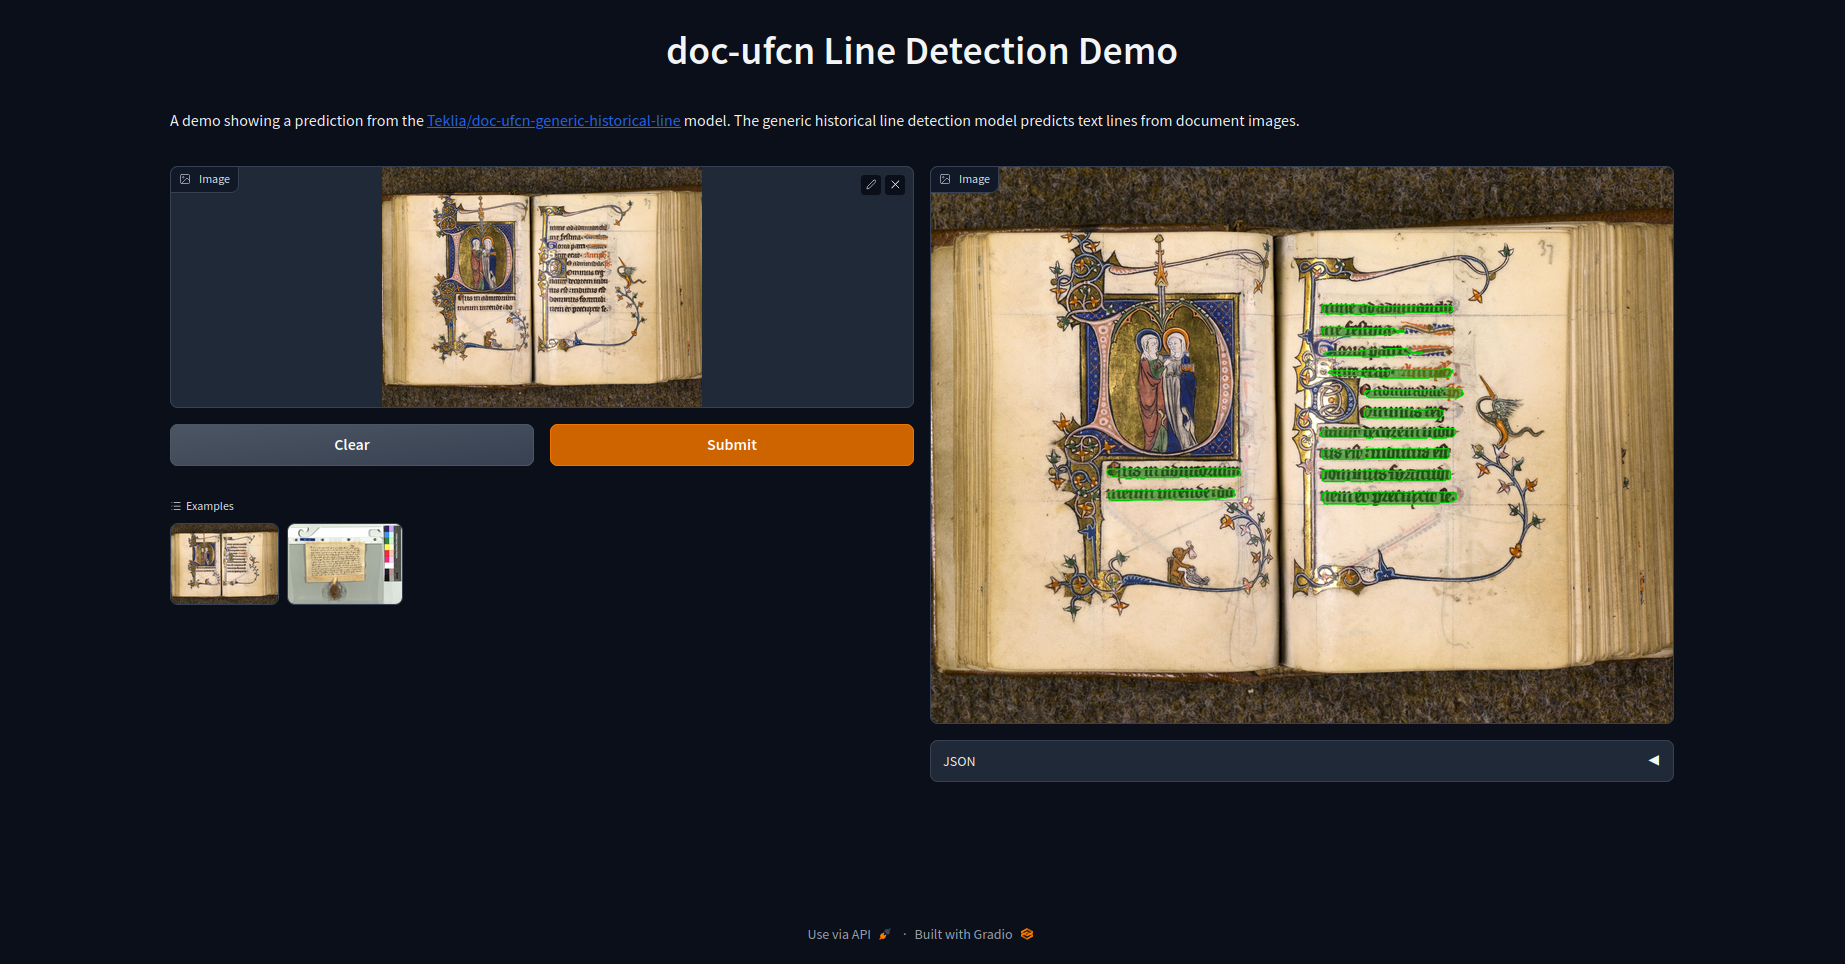
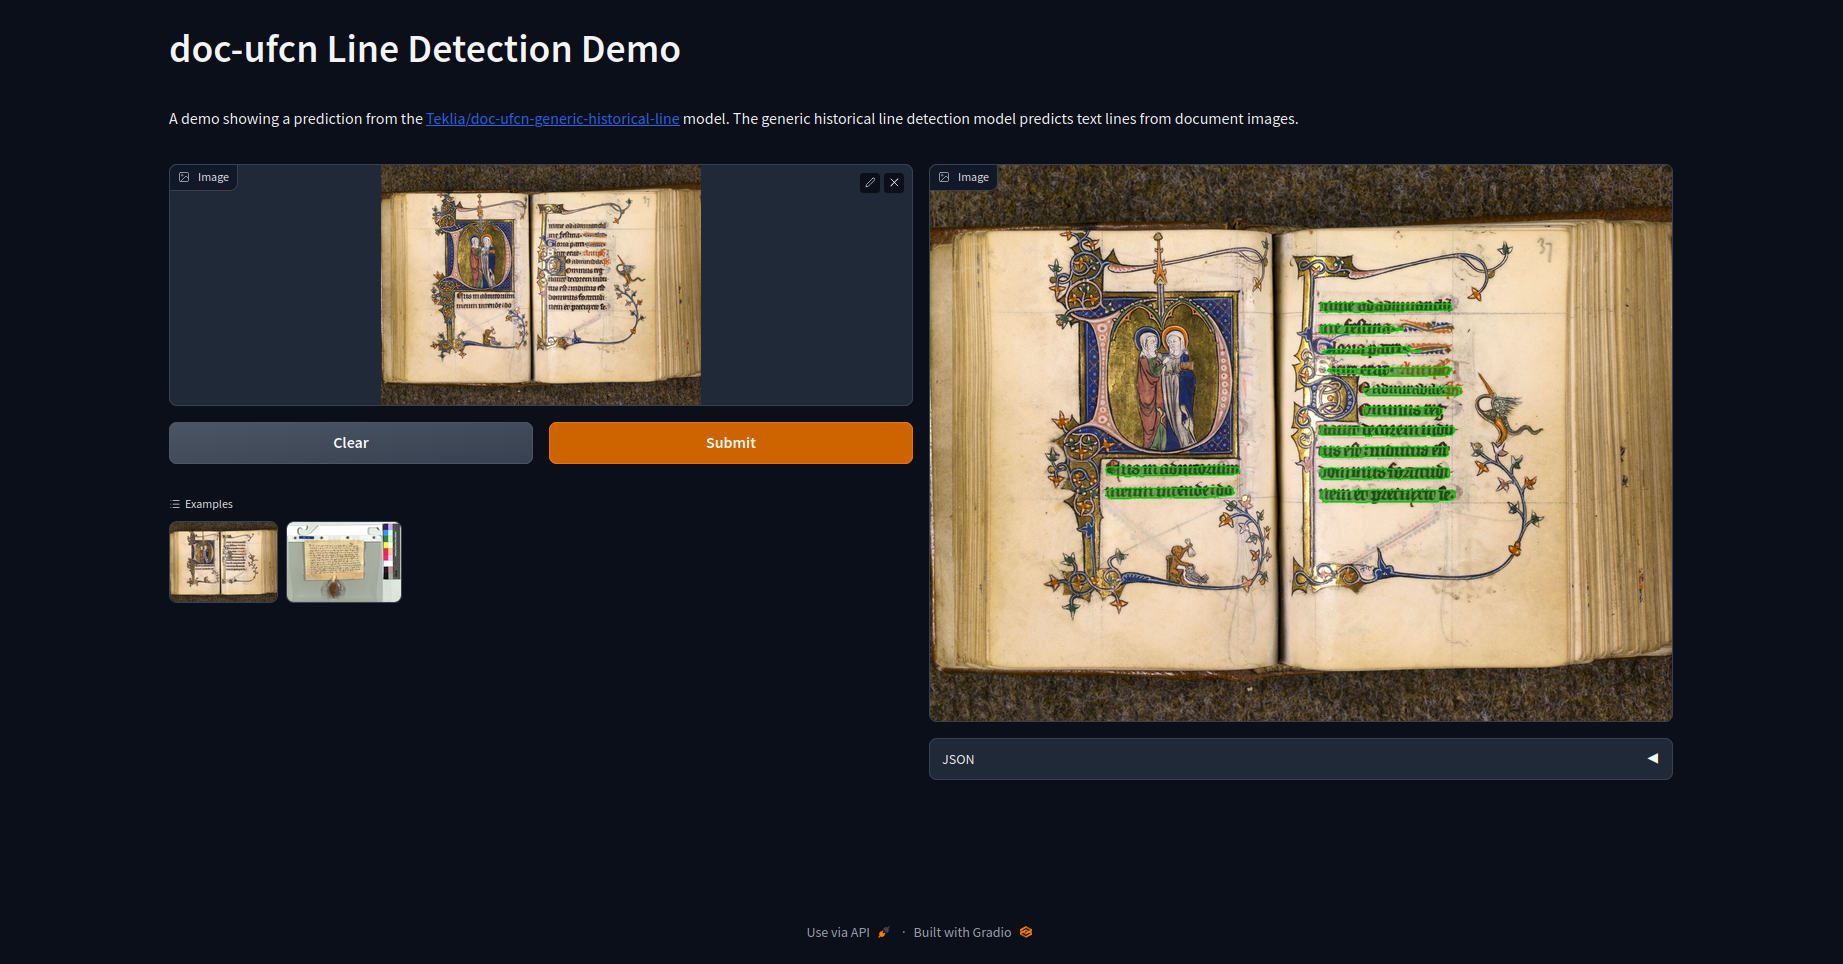
Remove HTML from Markdown

diff --git a/hugging_face/app.py b/hugging_face/app.py
@@ -101,15 +101,13 @@ def query_image(image):
             # Add an index to dictionary keys to differentiate predictions of the same class
             predict.append(
                 {
-                    "polygon": np.asarray(polygon["polygon"])
-                    .astype(int)
-                    .tolist(),  # The list of coordinates of the points of the polygon
-                    "confidence": polygon[
-                        "confidence"
-                    ],  # Confidence that the model predicts the polygon in the right place
-                    "channel": classes[
-                        channel
-                    ],  # The channel on which the polygon is predicted
+                    # The list of coordinates of the points of the polygon.
+                    # Cast to list of np.int32 to make it JSON-serializable
+                    "polygon": np.asarray(polygon["polygon"], dtype=np.int32).tolist(),
+                    # Confidence that the model predicts the polygon in the right place
+                    "confidence": polygon["confidence"],
+                    # The channel on which the polygon is predicted
+                    "channel": classes[channel],
                 }
             )
 
@@ -120,7 +118,7 @@ def query_image(image):
 with gr.Blocks() as process_image:
 
     # Create app title
-    gr.Markdown(f"<h1 align='center'>{config['title']}</h1>")
+    gr.Markdown(f"# {config['title']}")
 
     # Create app description
     gr.Markdown(config["description"])
@@ -167,10 +165,10 @@ with gr.Blocks() as process_image:
                         # Generates a json with the model predictions
                         json_output = gr.JSON()
 
-    # Create the button to clear the inputs and outputs
+    # Clear button: set default values to inputs and output objects
     clear_button.click(
-        lambda x, y, z: (None, None, None),
-        inputs=[image, image_output, json_output],
+        lambda: (None, None, None),
+        inputs=[],
         outputs=[image, image_output, json_output],
     )
 

diff --git a/README.md b/README.md
@@ -313,8 +313,8 @@ An example is available in the `huggingface/` folder. You need to create a JSON 
 | ---------------- | ------------------------------------------------------------------------------------------------------------------ | ----------------------------- |
 | `model_name`     | Name of the model                                                                                             |`doc-ufcn-generic-historical-line`|
 | `classes_colors` | List with the colors of the classes                                                                                |                    `["green"]`|
-| `title`          | Title of the app                                                                                                   |                           **Required**|
-| `description`    | Description of the app                                                                                             |                           **Required**|
+| `title`          | Title of the app (supports Markdown)                                                                                                   |                           **Required**|
+| `description`    | Description of the app (supports Markdown)                                                                                           |                           **Required**|
 | `examples`       | Paths towards the image examples.                                                                                  |                           **Required**|
 
 A ready-to-use configuration file is available in `huggingface/config.json`. You may update it to your needs.
